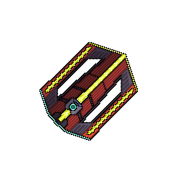
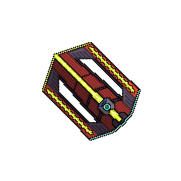
Moving base

Changed region(s): [[0.221, 0.221, 0.7735, 0.7735]]

diff --git a/src/pages/Map/Map.js b/src/pages/Map/Map.js
@@ -1,5 +1,5 @@
 import React, { useState, useEffect } from "react";
-import { HexGrid, HexUtils, Layout } from "react-hexgrid";
+import { Hex, HexGrid, HexUtils, Layout } from "react-hexgrid";
 import "./Map.css";
 import Hexagon from "./Hexagons";
 import Controls from "./Controls";
@@ -112,9 +112,9 @@ function Map() {
     const newMap = [...map];
     const index1 = newMap.findIndex(
       (item) =>
-        JSON.parse(item).coord.q === hex1.q &&
-        JSON.parse(item).coord.r === hex1.r &&
-        JSON.parse(item).coord.s === hex1.s
+        JSON.parse(item).coord.q === hex1.coord.q &&
+        JSON.parse(item).coord.r === hex1.coord.r &&
+        JSON.parse(item).coord.s === hex1.coord.s
     );
     const index2 = newMap.findIndex(
       (item) =>
@@ -132,6 +132,8 @@ function Map() {
       hex1Data.coord = hex2Data.coord;
       hex2Data.coord = tempShipCoord;
 
+      hex1Data.fill = hex1.fill;
+
       newMap[index1] = JSON.stringify(hex1Data);
       newMap[index2] = JSON.stringify(hex2Data);
       setMap(newMap);
@@ -141,32 +143,65 @@ function Map() {
     }
   };
 
-  useEffect(() => {
-    if (selectedShip) {
-      moveShip(selectedShip);
-    }
-  }, [selectedShip]);
+  const getRotationDegree = (hex1, hex2) => {
+    const directionVectors = {
+      "1,-1,0": "45",
+      "0,-1,1": "-45",
+      "1,0,-1": "90",
+      "-1,0,1": "-90",
+      "-1,1,0": "-135",
+      "0,1,-1": "135",
+    };
 
-  const handleHexClick = (hexa) => {
+    const hexDifference = new Hex(hex2.q - hex1.q, hex2.r - hex1.r, hex2.s - hex1.s);
+    const hexDifferenceKey = `${hexDifference.q},${hexDifference.r},${hexDifference.s}`;
+    for (const [key, value] of Object.entries(directionVectors)) {
+      if (key === hexDifferenceKey) {
+        return parseInt(value, 10);
+      }
+    }
+
+    // Return -1 if the hexagons are not neighbors
+    return -1;
+  };
+
+  const handleHexClick = async (hexa) => {
     if (moving) {
       if (
         hexagonClassNames[`${hexa.coord.q},${hexa.coord.r},${hexa.coord.s}`] == "movable" ||
         hexagonClassNames[`${hexa.coord.q},${hexa.coord.r},${hexa.coord.s}`] == "path"
       ) {
-        var path = findPath(selectedShip.coord, hexa.coord);
-        setSelectedShip(swapHexagons(selectedShip.coord, path.pop())[0]);
-        var newHexagonClassNames = {};
-        let updateHexagonClassNames = { ...hexagonClassNames }; // make a copy of the current classNames object
-        for (var index in updateHexagonClassNames) {
-          if (updateHexagonClassNames[index] != "movable" && updateHexagonClassNames[index] != "path") {
-            newHexagonClassNames[index] = updateHexagonClassNames[index];
+        let path = findPath(selectedShip.coord, hexa.coord);
+        path.shift();
+        let ship = selectedShip;
+        setHexagonInPath([]);
+        for (let indexPath in path) {
+          let nextCase = path[indexPath];
+          let rotation = getRotationDegree(ship.coord, nextCase);
+          ship = selectedShip;
+          if (ship.fill.split("/").length > 1) {
+            ship.fill = ship.fill.split("/")[0] + "/" + rotation;
+          } else {
+            ship.fill += "/" + rotation;
           }
+          let newHexas = swapHexagons(ship, nextCase);
+          setSelectedShip(newHexas[0]);
+          ship = newHexas[0];
+          let newHexagonClassNames = {};
+          let updateHexagonClassNames = { ...hexagonClassNames };
+          for (let index in updateHexagonClassNames) {
+            if (updateHexagonClassNames[index] != "movable" && updateHexagonClassNames[index] != "path") {
+              newHexagonClassNames[index] = updateHexagonClassNames[index];
+            }
+          }
+
+          setHexagonClassNames(newHexagonClassNames);
+          await delay(500);
         }
-      } else {
-        console.log("you can't");
+        setMoving(false);
+        setSelectedShip(null);
       }
     } else {
-      console.log(hexa);
       console.log(HexUtils.distance(hexa.coord, { q: 0, r: 0, s: 0 }));
       var desc = "";
       var img = "";
@@ -181,6 +216,8 @@ function Map() {
       setIsHexModalOpen(true);
     }
   };
+
+  const delay = (ms) => new Promise((resolve) => setTimeout(resolve, ms));
 
   const handleShipClick = (hexa) => {
     setSelectedShip(hexa);
@@ -295,7 +332,7 @@ function Map() {
   // Call drawMap() after updating classNames
   useEffect(() => {
     drawMap();
-  }, [hexagonClassNames]);
+  }, [hexagonClassNames, selectedShip]);
 
   const drawMap = () => {
     var newHexagons = [];

diff --git a/src/pages/Map/Patterns.js b/src/pages/Map/Patterns.js
@@ -5,7 +5,28 @@ import Agri from "../../assets/img/planets/planet-agri.webp";
 import Mine from "../../assets/img/planets/planet-mine.webp";
 import Indu from "../../assets/img/planets/planet-indu.webp";
 import Atmo from "../../assets/img/planets/planet-atmo.webp";
+
 import Base1 from "../../assets/img/ships/ship1/base/base.png";
+import Base145 from "../../assets/img/ships/ship1/base/base45.png";
+import Base190 from "../../assets/img/ships/ship1/base/base90.png";
+import Base1135 from "../../assets/img/ships/ship1/base/base135.png";
+import Base1_45 from "../../assets/img/ships/ship1/base/base-45.png";
+import Base1_90 from "../../assets/img/ships/ship1/base/base-90.png";
+import Base1_135 from "../../assets/img/ships/ship1/base/base-135.png";
+
+import Ship145 from "../../assets/img/ships/ship1/ship/ship45.png";
+import Ship190 from "../../assets/img/ships/ship1/ship/ship90.png";
+import Ship1135 from "../../assets/img/ships/ship1/ship/ship135.png";
+import Ship1_45 from "../../assets/img/ships/ship1/ship/ship-45.png";
+import Ship1_90 from "../../assets/img/ships/ship1/ship/ship-90.png";
+import Ship1_135 from "../../assets/img/ships/ship1/ship/ship-135.png";
+
+import Miner145 from "../../assets/img/ships/ship1/miner/miner45.png";
+import Miner190 from "../../assets/img/ships/ship1/miner/miner90.png";
+import Miner1135 from "../../assets/img/ships/ship1/miner/miner135.png";
+import Miner1_45 from "../../assets/img/ships/ship1/miner/miner-45.png";
+import Miner1_90 from "../../assets/img/ships/ship1/miner/miner-90.png";
+import Miner1_135 from "../../assets/img/ships/ship1/miner/miner-135.png";
 
 const Patterns = () => (
   <>
@@ -15,6 +36,26 @@ const Patterns = () => (
     <Pattern id="indu" link={Indu} size={{ x: 10, y: 12 }} />
     <Pattern id="atmo" link={Atmo} size={{ x: 10, y: 12 }} />
     <Pattern id="base/1" link={Base1} size={{ x: 10, y: 12 }} />
+    <Pattern id="base/1/45" link={Base145} size={{ x: 10, y: 12 }} />
+    <Pattern id="base/1/-90" link={Base190} size={{ x: 10, y: 12 }} />
+    <Pattern id="base/1/-135" link={Base1135} size={{ x: 10, y: 12 }} />
+    <Pattern id="base/1/-45" link={Base1_45} size={{ x: 10, y: 12 }} />
+    <Pattern id="base/1/90" link={Base1_90} size={{ x: 10, y: 12 }} />
+    <Pattern id="base/1/135" link={Base1_135} size={{ x: 10, y: 12 }} />
+
+    <Pattern id="ship/1/45" link={Ship145} size={{ x: 10, y: 12 }} />
+    <Pattern id="ship/1/90" link={Ship190} size={{ x: 10, y: 12 }} />
+    <Pattern id="ship/1/135" link={Ship1135} size={{ x: 10, y: 12 }} />
+    <Pattern id="ship/1/-45" link={Ship1_45} size={{ x: 10, y: 12 }} />
+    <Pattern id="base/1/-90" link={Ship1_90} size={{ x: 10, y: 12 }} />
+    <Pattern id="base/1/-135" link={Ship1_135} size={{ x: 10, y: 12 }} />
+
+    <Pattern id="miner/1/45" link={Miner145} size={{ x: 10, y: 12 }} />
+    <Pattern id="miner/1/90" link={Miner190} size={{ x: 10, y: 12 }} />
+    <Pattern id="miner/1/135" link={Miner1135} size={{ x: 10, y: 12 }} />
+    <Pattern id="miner/1/-45" link={Miner1_45} size={{ x: 10, y: 12 }} />
+    <Pattern id="miner/1/-90" link={Miner1_90} size={{ x: 10, y: 12 }} />
+    <Pattern id="miner/1/-135" link={Miner1_135} size={{ x: 10, y: 12 }} />
   </>
 );
 

diff --git a/src/pages/Map/ShipModal.js b/src/pages/Map/ShipModal.js
@@ -3,7 +3,7 @@ import "./ShipModal.css";
 function ShipModal({ ship, handleClose, handleMove }) {
   return (
     <div className="ship-modal">
-      <h2>{ship.fill}</h2>
+      <h2>Ship</h2>
       <div className="ship-modal-choices">
         <button
           onClick={() => {
